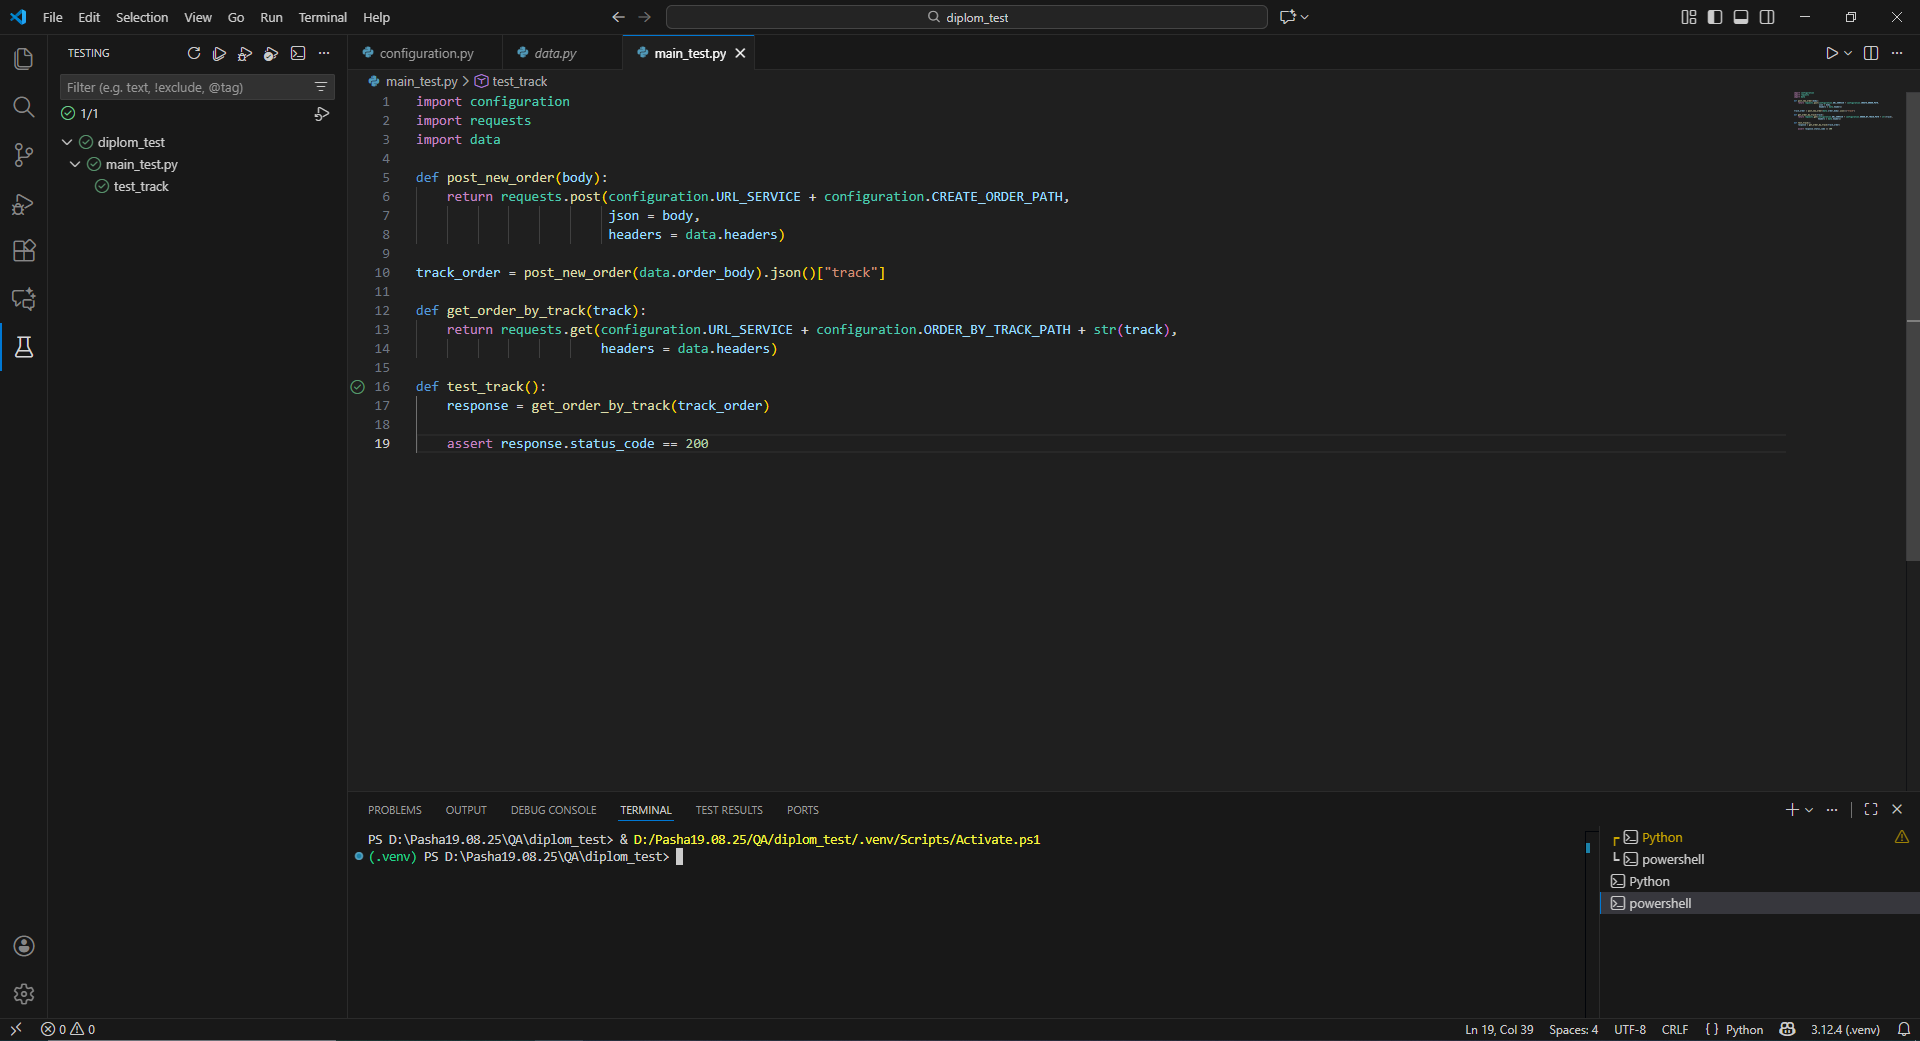
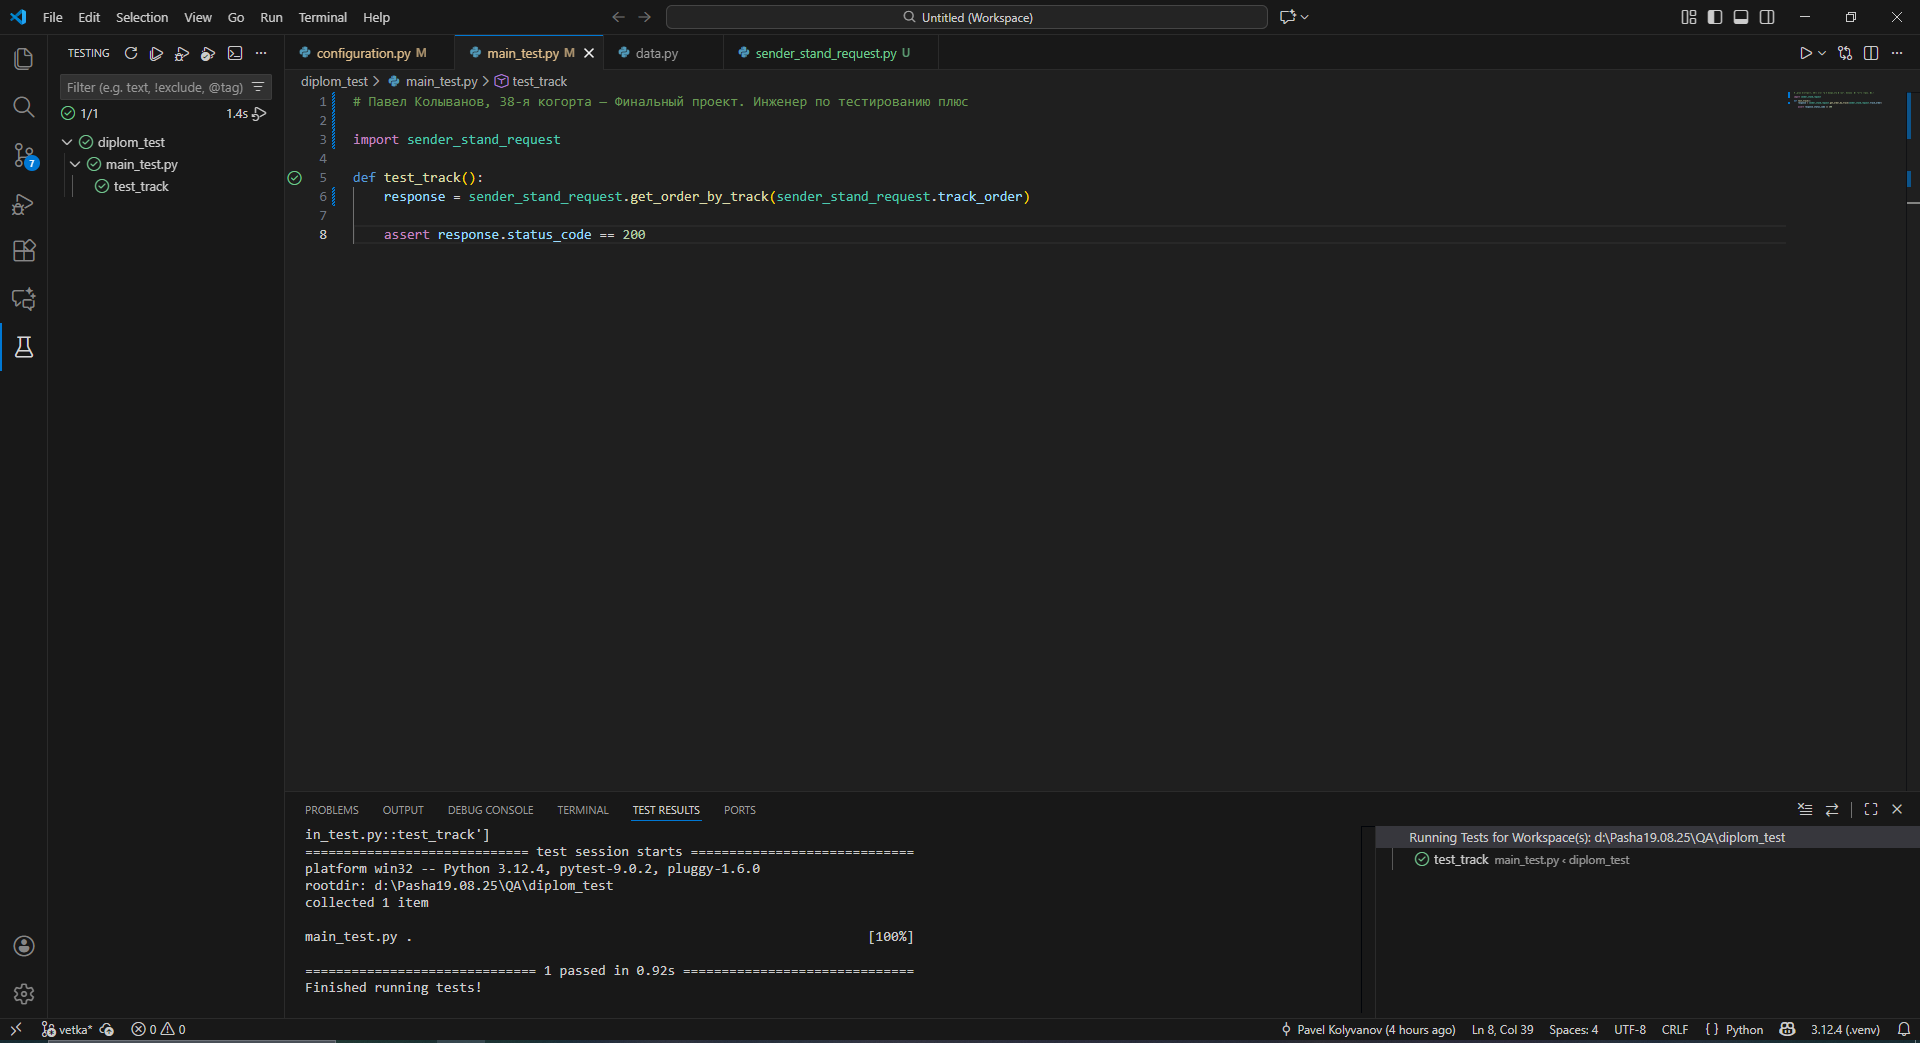
add sender_stand_request

diff --git a/main_test.py b/main_test.py
@@ -1,19 +1,8 @@
-import configuration
-import requests
-import data
+# Павел Колыванов, 38-я когорта — Финальный проект. Инженер по тестированию плюс
 
-def post_new_order(body):
-    return requests.post(configuration.URL_SERVICE + configuration.CREATE_ORDER_PATH,
-                         json = body,
-                         headers = data.headers)
-
-track_order = post_new_order(data.order_body).json()["track"]
-
-def get_order_by_track(track):
-    return requests.get(configuration.URL_SERVICE + configuration.ORDER_BY_TRACK_PATH + str(track),
-                        headers = data.headers)
+import sender_stand_request
 
 def test_track():
-    response = get_order_by_track(track_order)
+    response = sender_stand_request.get_order_by_track(sender_stand_request.track_order)
 
     assert response.status_code == 200

diff --git a/sender_stand_request.py b/sender_stand_request.py
@@ -1,0 +1,14 @@
+import configuration
+import requests
+import data
+
+def post_new_order(body):
+    return requests.post(configuration.URL_SERVICE + configuration.CREATE_ORDER_PATH,
+                         json = body,
+                         headers = data.headers)
+
+track_order = post_new_order(data.order_body).json()["track"]
+
+def get_order_by_track(track):
+    return requests.get(configuration.URL_SERVICE + configuration.ORDER_BY_TRACK_PATH + str(track),
+                        headers = data.headers)

diff --git a/configuration.py b/configuration.py
@@ -1,4 +1,4 @@
-URL_SERVICE = "https://f3c0299c-0632-4e95-969f-ece9ea973cd9.serverhub.praktikum-services.ru"
+URL_SERVICE = "https://1c7540a1-0461-4694-ac85-bc2b2cfbae5b.serverhub.praktikum-services.ru"
 
 DOC_PATH = "/docs/"
 
